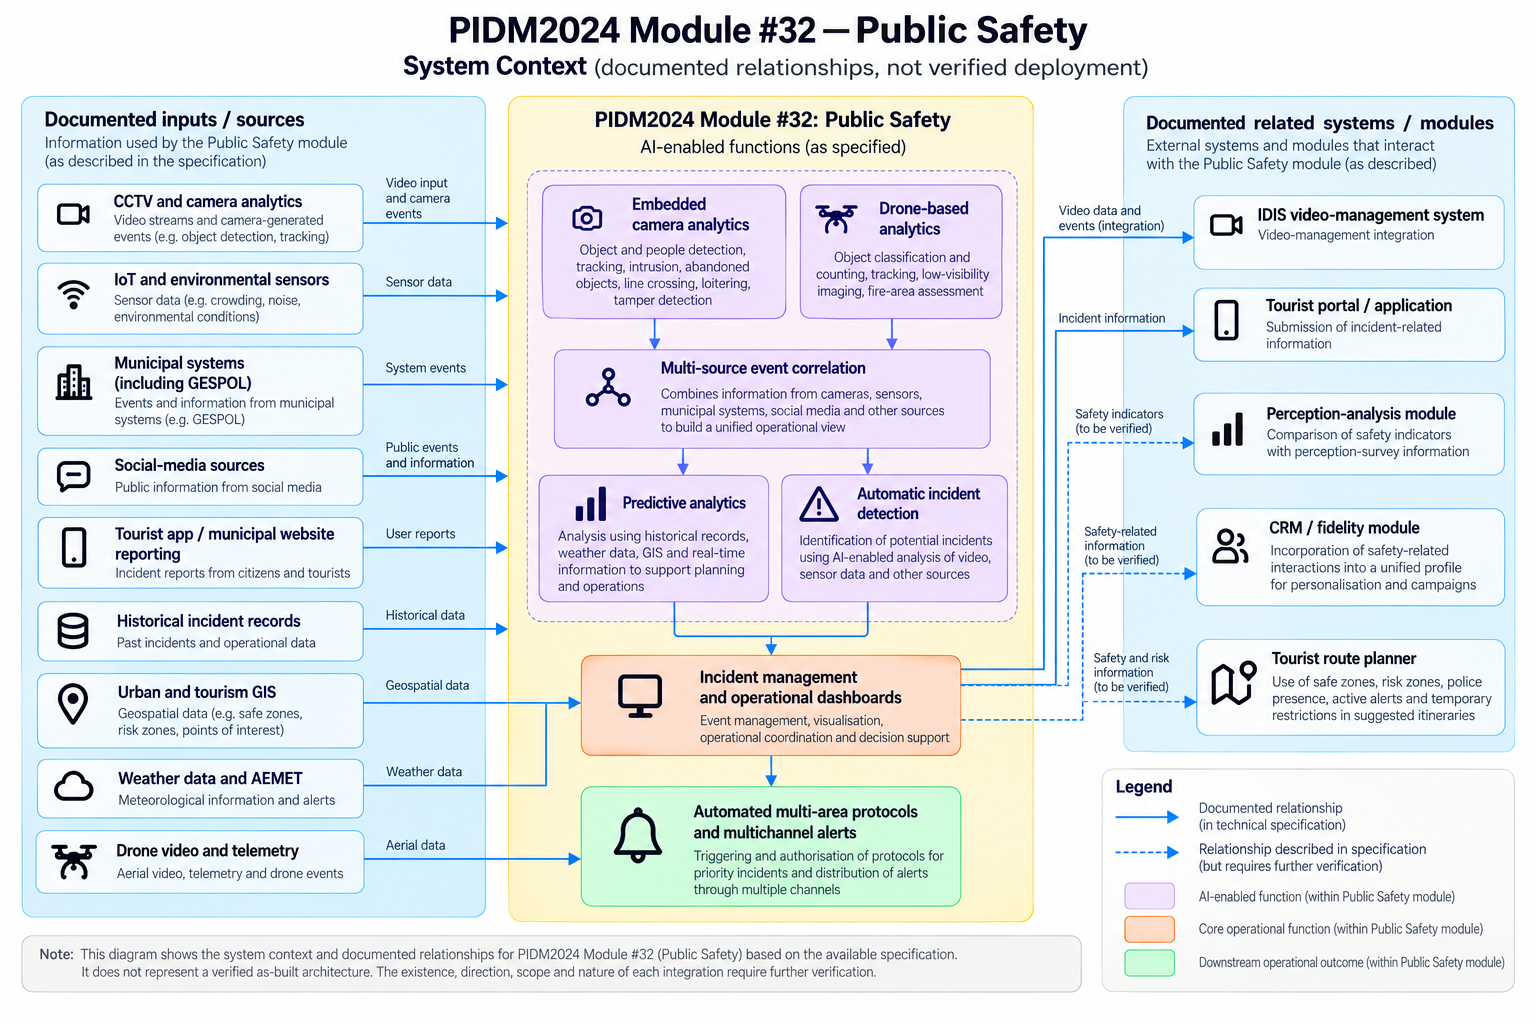
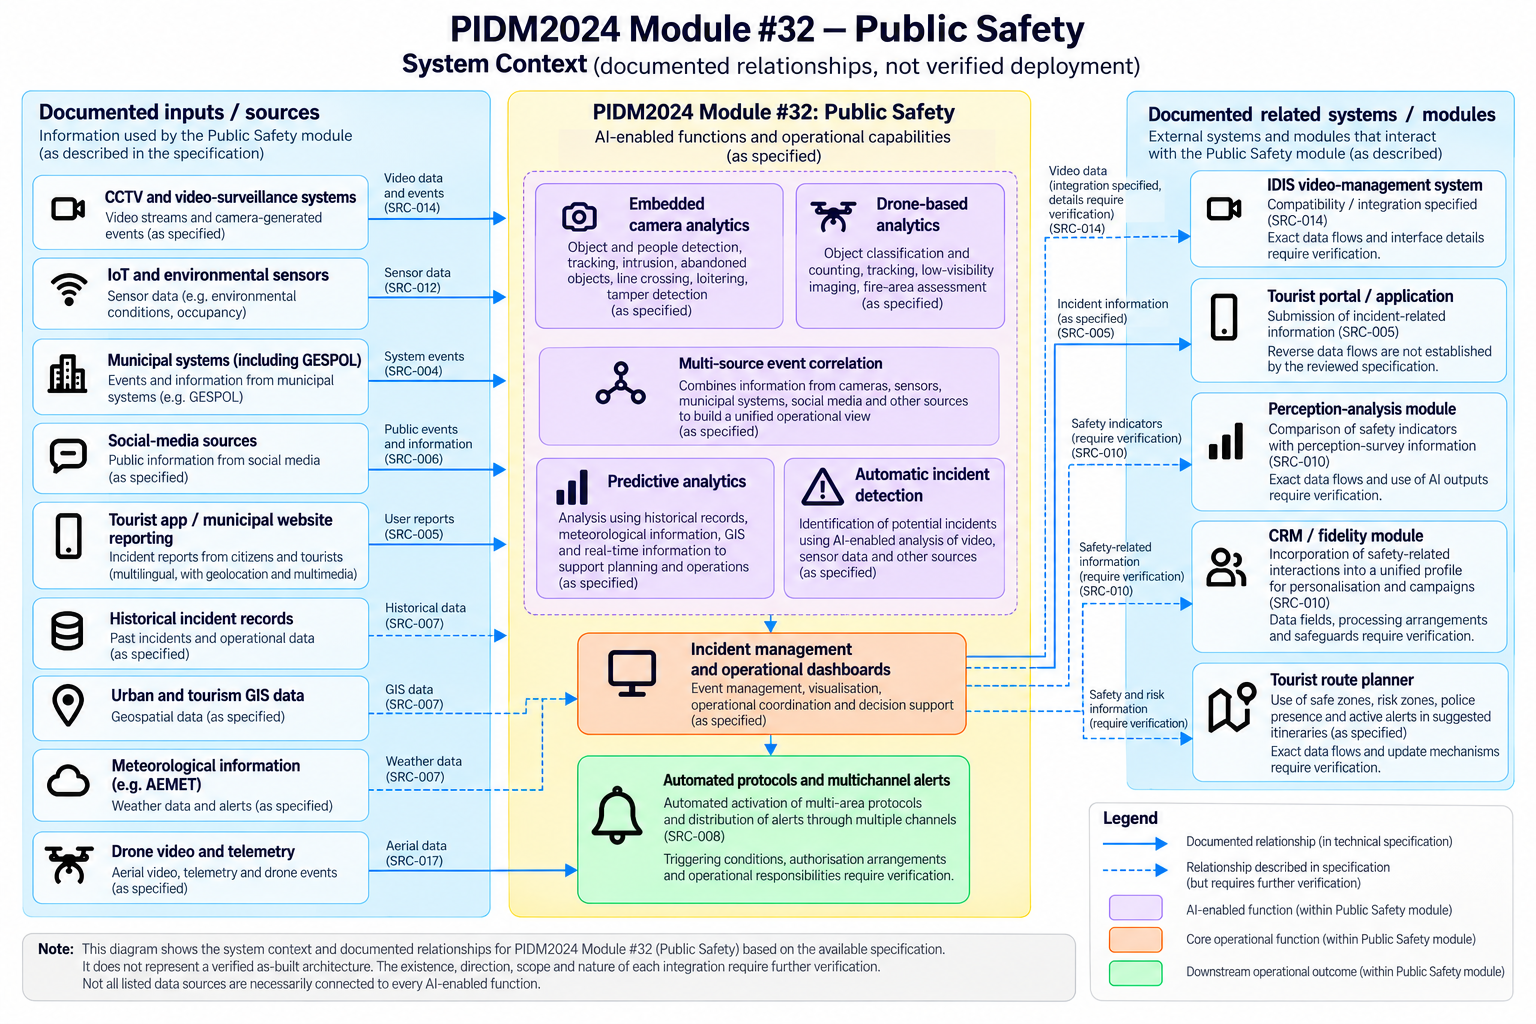
Add PIDM platform architecture context

Changed region(s): [[0.0, 0.0, 1.0, 0.9688]]

diff --git a/docs/source-baseline/source-requirements-register.md b/docs/source-baseline/source-requirements-register.md
@@ -39,6 +39,7 @@ This register records source-backed requirements and system characteristics befo
 | SRC-023 | §5.3, pp. 14–15; §5.9.1, pp. 29–30 | The specification requires a comprehensive test plan with traceable test cases, expected results and generated evidence. Testing includes functional, integration, performance, security, interoperability and acceptance tests. Independent audits may cover source code, vulnerabilities and compliance with functional and technical requirements. Critical and high-severity audit findings must be resolved before validation of a functional version or deliverable milestone. | Testing, technical audit and acceptance | Verification, security assurance and release governance | The specification does not establish which tests were executed for Module #32, their results, the specific AI-related test cases, or whether outstanding findings remain. | Source verified |
 | SRC-024 | §5.9.2, p. 30; §7.5.3, pp. 83–84 | For predictive models and models inferred using machine learning or AI, the specification requires use of CRISP-DM, identification of evaluation metrics and acceptable thresholds, documentation of assumptions affecting continued validity, and identification and automation of maintenance and retraining activities. The proposed metrics and thresholds require approval by the RMC. | Predictive-model quality and lifecycle management | Model validation, performance monitoring, drift management and change control | The specification does not establish the metrics and thresholds selected for Module #32, their suitability for each use case, validation results, monitoring arrangements or whether retraining has been performed. | Source verified |
 | SRC-025 | Annex I, pp. 241–246 | The annex lists data sources and indicators for integration into PIDM, including INE, Proyecto D3HUB, the SEGITTUR Tourism Intelligence System, SmartData–Turismo Andaluz and INSTO. Listed indicators cover tourism activity, mobility-derived tourism analysis, crime involving tourists, economic activity, employment, transport, sustainability, environmental conditions and local satisfaction. | Cross-platform data sources and indicator inventory | Data provenance, integration boundaries, privacy, data quality and indicator governance | The annex does not, by itself, establish which sources are connected to Module #32, whether data are aggregated or identifiable, how indicators are calculated, or whether the integrations are operational. | Source verified |
+| SRC-026 | §6.3, “ARQUITECTURA DE LA PIDM24,” p. 41 | The PIDM24 platform architecture diagram represents support, intelligent services, interoperability, knowledge processing, acquisition/interconnection, and external systems. The knowledge layer includes real-time, batch and analytical processing, alongside historical and real-time repositories and GIS components. | Platform-level architecture | System context, interoperability and architectural traceability | The diagram does not establish which platform components are connected to Module #32, the specific data flows used by Public Safety, or the implementation and operational status of the depicted components. | Source verified |
 
 ## 3. Evidence interpretation rules
 

diff --git a/docs/system-understanding/system-context.md b/docs/system-understanding/system-context.md
@@ -53,6 +53,8 @@ Relevant source requirements include:
 - **SRC-012:** Data sources and outputs.
 - **SRC-014–SRC-017:** Camera, recording infrastructure, control-room infrastructure, and drone requirements.
 
+**Broader platform architecture:** Section 6.3, “ARQUITECTURA DE LA PIDM24,” printed page 41, provides a platform-level architecture view covering support, interoperability, knowledge processing, acquisition/interconnection, and external systems. It provides context for understanding Module #32 within PIDM24, but does not by itself establish which platform components are connected to Public Safety or verify the implementation of specific data flows.
+
 Relevant evidence gaps include **EG-001–EG-008**, covering human oversight, model validation, monitoring, incident management, accountability and change control, data governance, implementation verification, and external data-source integration.
 
 These references identify relevant records for further assessment. They do not establish that requirements have been fulfilled or that controls are effective.
